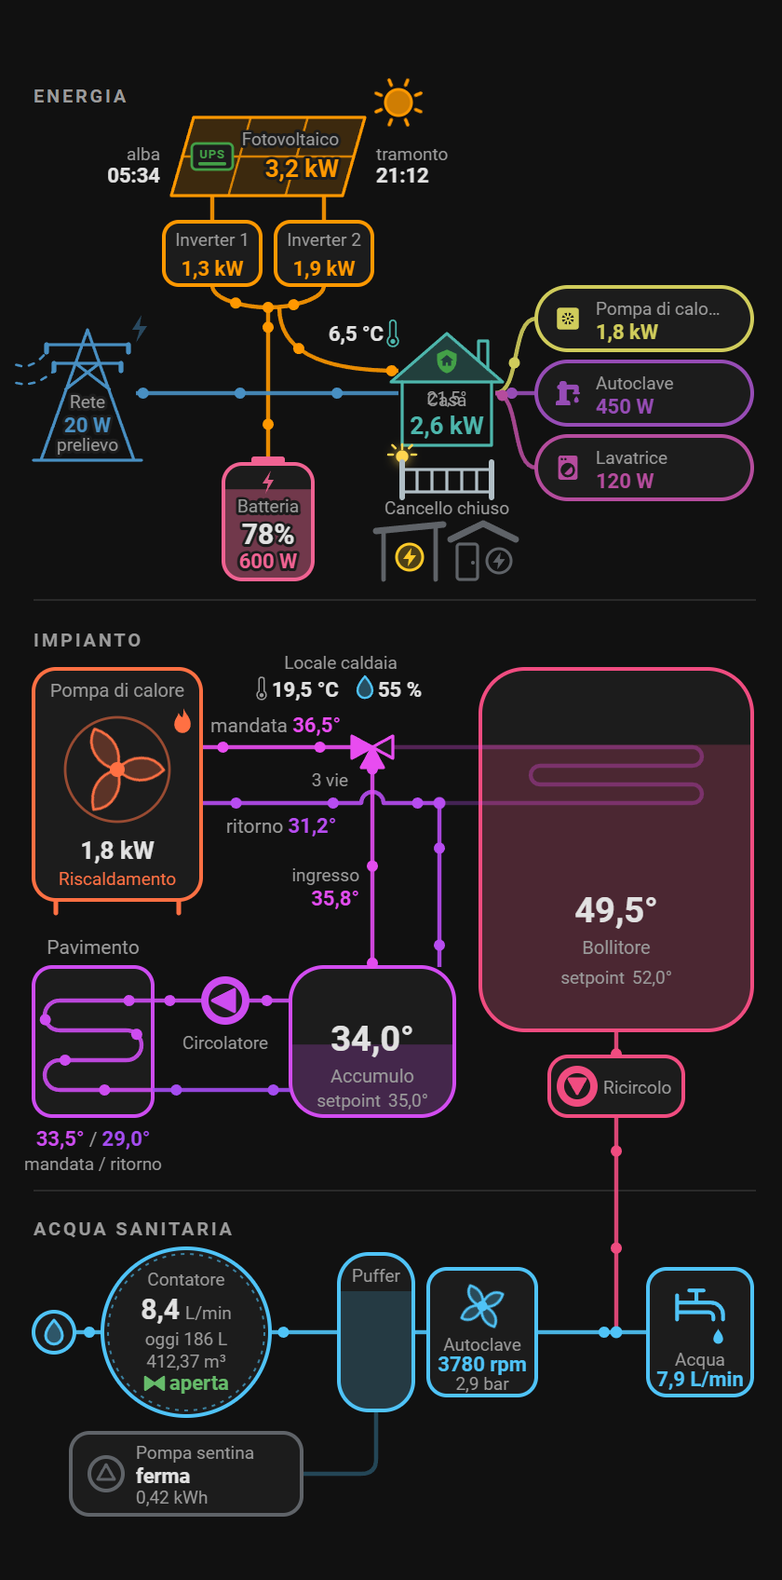
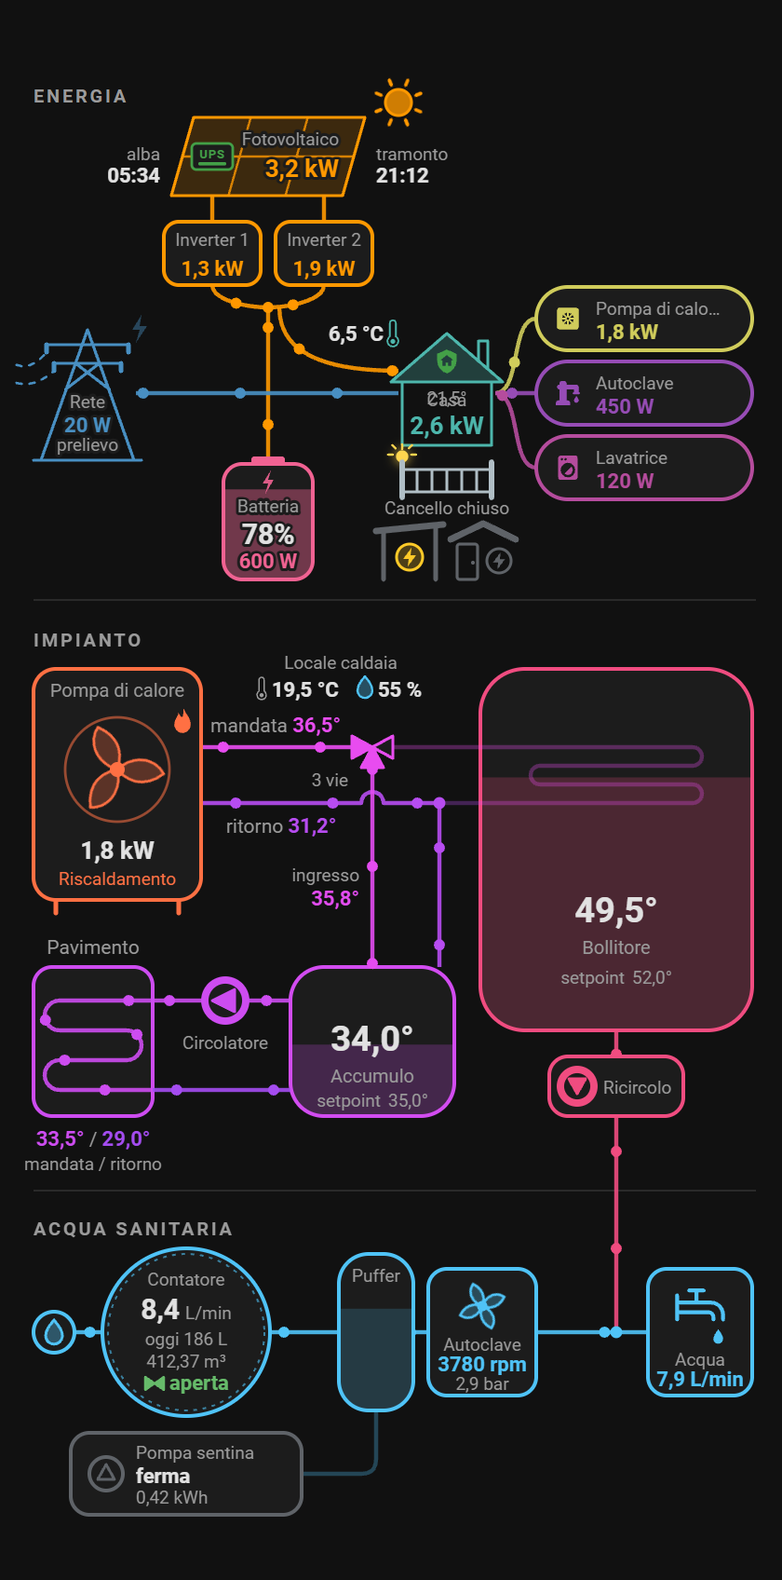
v0.34.0

diff --git a/pdc-flow-card.js b/pdc-flow-card.js
@@ -36,6 +36,8 @@
  *   nomi:                # facoltativo, chiavi in PDC_NOMI; '' = nessuna scritta
  *     bollitore: Boiler ACS
  *     rete: ''
+ *   (acs_livello, puffer_livello: livello dell'acqua in % (0-100): il disegno del serbatoio si riempie in proporzione;
+ *    acs_litri, puffer_litri: capacità in litri, al primo livello: se impostata compare la quantità in litri, altrimenti no),
  *   (acs_setpoint / accumulo_setpoint: climate, water_heater o sensore; numero piccolo nel serbatoio)
  *   colori:              # facoltativo: colore di icone e disegni (anche da fermi), chiavi in PDC_COLORI
  *     bollitore: red     # nome tema (red, blue…), #hex o [r, g, b]
@@ -56,7 +58,7 @@
  *   soglia_energia: 0          # facoltativo: kW sopra cui rete e batteria si animano (0 = qualsiasi valore)
  */
 
-const PDC_VERSION = '0.33.0';
+const PDC_VERSION = '0.34.0';
 
 // Nomi predefiniti dei componenti (sezione "nomi:")
 const PDC_NOMI = {
@@ -115,6 +117,7 @@ const PDC_ENTITY_KEYS = [
   'circolatore', 'pavimento_mandata', 'pavimento_ritorno', 'acqua_valvola', 'acqua_portata',
   'acqua_totale', 'acqua_oggi', 'ricircolo', 'autoclave_velocita', 'autoclave_pressione',
   'autoclave_portata', 'autoclave_stato', 'autoclave_comando', 'acs_setpoint', 'accumulo_setpoint',
+  'acs_livello', 'puffer_livello',
   'sentina_potenza', 'sentina_energia', 'sentina_stato', 'locale_temperatura', 'locale_umidita',
 ];
 const PDC_MAIN_KEYS = PDC_ENTITY_KEYS.filter((k) => !PDC_ENERGY_KEYS.includes(k));
@@ -126,14 +129,14 @@ const PDC_ENTITY_ORDER = [
   'locale_temperatura', 'locale_umidita', 'pdc_potenza', 'riscaldamento', 'raffrescamento', 'acs_potenza', 'acs_attiva',
   'pdc_mandata', 'pdc_ritorno', 'acs_temperatura', 'acs_setpoint', 'accumulo_temperatura', 'accumulo_setpoint',
   'accumulo_ingresso', 'circolatore', 'pavimento_mandata', 'pavimento_ritorno',
-  'acqua_valvola', 'acqua_stop', 'acqua_portata', 'acqua_totale', 'acqua_oggi',
+  'acs_livello', 'puffer_livello', 'acqua_valvola', 'acqua_stop', 'acqua_portata', 'acqua_totale', 'acqua_oggi',
   'autoclave_velocita', 'autoclave_pressione', 'autoclave_portata', 'autoclave_stato', 'autoclave_comando', 'ricircolo',
   'sentina_potenza', 'sentina_energia', 'sentina_stato',
 ];
 const PDC_CONFIG_ORDER = [
   'type', 'title', 'animazioni_sempre', 'demo', 'entities', 'utenze',
   'fv_compatto', 'alba_tramonto', 'soglia_energia', 'batteria_inverti', 'rete_inverti', 'batteria_colora', 'batteria_min', 'batteria_max',
-  'soglia_pdc', 'soglia_acs', 'temperature',
+  'acs_litri', 'puffer_litri', 'soglia_pdc', 'soglia_acs', 'temperature',
   'acqua_portata_unita', 'acqua_separata', 'puffer',
   'nomi', 'colori',
 ];
@@ -175,6 +178,8 @@ const PDC_DEMO = {
   pdc_ritorno: ['sensor', 31.2, '°C'],
   acs_temperatura: ['sensor', 49.5, '°C'],
   acs_setpoint: ['sensor', 52, '°C'],
+  acs_livello: ['sensor', 70, '%'],
+  puffer_livello: ['sensor', 65, '%'],
   accumulo_temperatura: ['sensor', 34, '°C'],
   accumulo_ingresso: ['sensor', 35.8, '°C'],
   accumulo_setpoint: ['sensor', 35, '°C'],
@@ -578,12 +583,13 @@ ${PDC_SVG_ENERGY}
   <line class="div" id="div-a" x1="18" y1="316" x2="406" y2="316"/>
 
   <!-- Bollitore -->
-  <g id="g-boiler" class="clickable" data-key="acs_temperatura">
+  <g id="g-boiler" class="clickable" data-key="acs_temperatura|acs_livello">
     <rect class="tank" x="258" y="36" width="146" height="194" rx="24"/>
     <rect id="fill-boiler" class="fill" clip-path="url(#cp-boiler)" x="258" y="230" width="146" height="0"/>
     <rect class="tank-o" x="258" y="36" width="146" height="194" rx="24"/>
     <text x="331" y="172" class="big c" id="t-boiler">—</text>
     <text x="331" y="189" class="lbl c sm" id="n-bollitore">Bollitore</text>
+    <text x="331" y="66" class="lbl c sm hidden" id="t-boil-l"></text>
   </g>
   <g id="g-boil-sp" class="clickable" data-key="acs_setpoint">
     <text x="331" y="205" class="lbl c xs"><tspan id="n-setpoint">setpoint</tspan><tspan dx="4" id="t-boil-sp">—</tspan></text>
@@ -725,11 +731,12 @@ ${PDC_SVG_ENERGY}
   </g>
 
   <!-- Puffer: nome dentro -->
-  <g id="g-puffer">
+  <g id="g-puffer" class="clickable" data-key="puffer_livello">
     <rect class="tank" x="182" y="394" width="40" height="84" rx="16"/>
     <rect id="fill-puffer" class="fill" clip-path="url(#cp-puffer)" x="182" y="414" width="40" height="64"/>
     <rect class="tank-o" x="182" y="394" width="40" height="84" rx="16"/>
     <text x="202" y="409" class="lbl c xs halo" id="n-puffer">Puffer</text>
+    <text x="202" y="448" class="lbl c xs halo hidden" id="t-puffer-l"></text>
   </g>
 
   <!-- Autoclave: girante, nome, stato e pressione dentro -->
@@ -803,6 +810,7 @@ const PDC_CSS = `
   .imp      { transform-box: view-box; transform-origin: 259px 422px; }
   .run .imp { animation: pdc-spin var(--spin, .6s) linear infinite; }
   #fill-puffer { fill: var(--c, var(--pdc-idle)); fill-opacity: .18; }
+  .fill { transition: y .8s, height .8s; }
 
   .tank   { fill: var(--pdc-bg); }
   .tank-o { fill: none; stroke: var(--c, var(--pdc-idle)); stroke-width: 2; transition: stroke .5s; }
@@ -1276,6 +1284,30 @@ class PdcFlowCard extends HTMLElement {
     const fh = h * k;
     el.setAttribute('y', (y0 + h - fh).toFixed(1));
     el.setAttribute('height', fh.toFixed(1));
+    el.style.fill = color || '';
+  }
+
+  // Livello in % (0-100): l'acqua sale e scende con una breve transizione
+  _level(id, pct, y0, h, color) {
+    const el = this._els[id];
+    if (!el) return;
+    const k = pct === null || isNaN(pct) ? 0 : Math.min(1, Math.max(0, pct / 100));
+    const fh = h * k;
+    el.setAttribute('y', (y0 + h - fh).toFixed(1));
+    el.setAttribute('height', fh.toFixed(1));
+    el.style.fill = color || '';
+  }
+
+  // Quantità in litri: solo con livello e capacità impostati
+  _litri(id, key, cap, color) {
+    const el = this._els[id];
+    if (!el) return;
+    const capN = Number(cap);
+    const pct = this._has(key) ? this._num(key) : null;
+    const show = capN > 0 && pct !== null && !isNaN(pct);
+    el.classList.toggle('hidden', !show);
+    if (!show) return;
+    el.textContent = Math.round((Math.min(100, Math.max(0, pct)) / 100) * capN) + ' L';
     el.style.fill = color || '';
   }
 
@@ -1896,7 +1928,9 @@ class PdcFlowCard extends HTMLElement {
     const boilTxt = colora('bollitore') ? tc('bollitore', tAcs) : null;
     this._text('t-boiler', fT(tAcs), boilTxt || '');
     paint('n-bollitore', boilTxt);
-    this._fill('fill-boiler', tAcs, 36, 194, cAcs);
+    if (has('acs_livello')) this._level('fill-boiler', this._num('acs_livello'), 36, 194, cAcs);
+    else this._fill('fill-boiler', tAcs, 36, 194, cAcs);
+    this._litri('t-boil-l', 'acs_livello', c.acs_litri, cAcs);
     this._color('g-accu', cAccu);
     const accuTxt = colora('accumulo') ? tc('accumulo', tAccu) : null;
     this._text('t-accu', fT(tAccu), accuTxt || '');
@@ -1962,6 +1996,8 @@ class PdcFlowCard extends HTMLElement {
 
     // Puffer e autoclave
     this._color('g-puffer', col('puffer', COLD));
+    this._litri('t-puffer-l', 'puffer_livello', c.puffer_litri, null);
+    if (has('puffer_livello')) this._level('fill-puffer', this._num('puffer_livello'), 394, 84, col('puffer', COLD));
     this._color('g-auto', fixed('autoclave') || (acRun ? COLD : null));
     this._els['g-auto'].classList.toggle('run', !!acRun);
     if (acRpm) {
@@ -2086,6 +2122,8 @@ const PDC_FIELD_SELECTORS = {
   batteria_potenza: PDC_SENSOR,
   batteria_inverti: { boolean: {} },
   batteria_colora: { boolean: {} },
+  acs_litri: { number: { min: 0, max: 5000, step: 1, mode: 'box', unit_of_measurement: 'L' } },
+  puffer_litri: { number: { min: 0, max: 5000, step: 1, mode: 'box', unit_of_measurement: 'L' } },
   batteria_min: { number: { min: 0, max: 100, step: 1, mode: 'box', unit_of_measurement: '%' } },
   batteria_max: { number: { min: 0, max: 100, step: 1, mode: 'box', unit_of_measurement: '%' } },
   rete_potenza: PDC_SENSOR,
@@ -2118,6 +2156,8 @@ const PDC_FIELD_SELECTORS = {
   circolatore: PDC_ANY,
   pavimento_mandata: PDC_SENSOR,
   pavimento_ritorno: PDC_SENSOR,
+  acs_livello: PDC_SENSOR,
+  puffer_livello: PDC_SENSOR,
   acs_setpoint: { entity: { domain: ['climate', 'water_heater', 'sensor', 'number', 'input_number'] } },
   accumulo_setpoint: { entity: { domain: ['climate', 'water_heater', 'sensor', 'number', 'input_number'] } },
   acqua_valvola: PDC_ANY,
@@ -2163,7 +2203,7 @@ const PDC_GROUPS = [
   ['valvola_3_vie', 'Valvola 3 vie (ciclo ACS)', 'mdi:valve', ['acs_potenza', 'acs_attiva', 'soglia_acs', 'nome_valvola_3_vie', 'colore_valvola_3_vie']],
   ['mandata', 'Mandata', 'mdi:thermometer-chevron-up', ['pdc_mandata', 'nome_mandata', 'colore_mandata', 'tcolora_mandata', 'tmin_mandata', 'tmax_mandata']],
   ['ritorno', 'Ritorno', 'mdi:thermometer-chevron-down', ['pdc_ritorno', 'nome_ritorno', 'colore_ritorno', 'tcolora_ritorno', 'tmin_ritorno', 'tmax_ritorno']],
-  ['bollitore', 'Bollitore', 'mdi:water-boiler', ['acs_temperatura', 'acs_setpoint', 'nome_bollitore', 'colore_bollitore', 'tcolora_bollitore', 'tmin_bollitore', 'tmax_bollitore']],
+  ['bollitore', 'Bollitore', 'mdi:water-boiler', ['acs_temperatura', 'acs_setpoint', 'acs_livello', 'acs_litri', 'nome_bollitore', 'colore_bollitore', 'tcolora_bollitore', 'tmin_bollitore', 'tmax_bollitore']],
   ['accumulo', 'Accumulo', 'mdi:storage-tank', ['accumulo_temperatura', 'accumulo_setpoint', 'nome_accumulo', 'colore_accumulo', 'tcolora_accumulo', 'tmin_accumulo', 'tmax_accumulo']],
   ['ingresso_accumulo', 'Ingresso accumulo', 'mdi:import', ['accumulo_ingresso', 'nome_ingresso_accumulo', 'colore_ingresso_accumulo', 'tcolora_ingresso_accumulo', 'tmin_ingresso_accumulo', 'tmax_ingresso_accumulo']],
   ['circolatore', 'Circolatore pavimento', 'mdi:pump', ['circolatore', 'nome_circolatore', 'colore_circolatore']],
@@ -2171,14 +2211,14 @@ const PDC_GROUPS = [
   ['rete', 'Rete e linee acqua', 'mdi:water', ['nome_rete', 'colore_rete', 'colore_acqua_fredda']],
   ['stop', 'Stop acqua', 'mdi:pipe-valve', ['acqua_valvola', 'nome_stop', 'colore_stop']],
   ['contatore', 'Contatore', 'mdi:counter', ['acqua_portata', 'acqua_portata_unita', 'acqua_totale', 'acqua_oggi', 'acqua_separata', 'nome_contatore', 'colore_contatore']],
-  ['puffer', 'Puffer', 'mdi:storage-tank-outline', ['puffer', 'nome_puffer', 'colore_puffer']],
+  ['puffer', 'Puffer', 'mdi:storage-tank-outline', ['puffer', 'puffer_livello', 'puffer_litri', 'nome_puffer', 'colore_puffer']],
   ['autoclave', 'Autoclave', 'mdi:water-pump', ['autoclave_velocita', 'autoclave_pressione', 'autoclave_portata', 'autoclave_stato', 'autoclave_comando', 'nome_autoclave', 'colore_autoclave']],
   ['ricircolo', 'Ricircolo', 'mdi:reload', ['ricircolo', 'nome_ricircolo', 'colore_ricircolo']],
   ['rubinetto', 'Rubinetto', 'mdi:faucet', ['nome_rubinetto', 'colore_rubinetto']],
   ['sentina', 'Pompa sentina', 'mdi:water-pump', ['sentina_potenza', 'sentina_energia', 'sentina_stato', 'nome_sentina', 'colore_sentina']],
 ];
 
-const PDC_OPT_KEYS = ['title', 'animazioni_sempre', 'acqua_portata_unita', 'puffer', 'soglia_pdc', 'soglia_acs', 'soglia_energia', 'batteria_inverti', 'rete_inverti', 'batteria_colora', 'batteria_min', 'batteria_max', 'fv_compatto', 'alba_tramonto', 'acqua_separata'];
+const PDC_OPT_KEYS = ['title', 'animazioni_sempre', 'acqua_portata_unita', 'puffer', 'acs_litri', 'puffer_litri', 'soglia_pdc', 'soglia_acs', 'soglia_energia', 'batteria_inverti', 'rete_inverti', 'batteria_colora', 'batteria_min', 'batteria_max', 'fv_compatto', 'alba_tramonto', 'acqua_separata'];
 
 const PDC_TNUM = { number: { min: -30, max: 100, step: 1, mode: 'box', unit_of_measurement: '°C' } };
 
@@ -2273,6 +2313,8 @@ const PDC_LABELS = {
   batteria_potenza: 'Potenza (positiva = in scarica)',
   batteria_inverti: 'Segno invertito (positiva = in carica)',
   batteria_colora: 'Colore secondo la carica (rosso scarica → verde carica)',
+  acs_litri: 'Capacità del bollitore in litri',
+  puffer_litri: 'Capacità del puffer in litri',
   batteria_min: 'Rosso fino a',
   batteria_max: 'Verde da',
   rete_potenza: 'Potenza (positiva = prelievo dalla rete)',
@@ -2326,6 +2368,8 @@ const PDC_LABELS = {
   nome_sezione_impianto: 'Nome della sezione',
   nome_sezione_acqua: 'Nome della sezione',
   nome_setpoint: 'Scritta prima del setpoint',
+  acs_livello: 'Livello acqua in % (il disegno sale e scende)',
+  puffer_livello: 'Livello acqua del puffer in % (il disegno sale e scende)',
   acs_setpoint: 'Setpoint (numero piccolo nel serbatoio)',
   accumulo_setpoint: 'Setpoint (numero piccolo nel serbatoio)',
   colore_acqua_fredda: 'Colore delle linee acqua',
@@ -2392,6 +2436,7 @@ class PdcFlowCardEditor extends HTMLElement {
           return 'Predefinito: ' + (sch.name.startsWith('tmin_') ? d[0] : d[1]) + ' °C';
         }
         if (sch.name === 'colore_rete_elettrica') return 'Nessuno = blu in prelievo, viola in immissione';
+        if (sch.name === 'acs_litri' || sch.name === 'puffer_litri') return 'Con il livello: mostra la quantità in litri. Vuoto = quantità non mostrata';
         if (sch.name === 'batteria_min') return 'Predefinito: 0 %';
         if (sch.name === 'batteria_max') return 'Predefinito: 100 %';
         if (sch.name === 'batteria_colora') return 'Colora batteria, linea, percentuale e nome. Un colore fisso, se scelto, vale per il disegno';

diff --git a/dev/render.js b/dev/render.js
@@ -11,7 +11,7 @@ const ent = {
   rete_potenza: 'sensor.grid', casa_potenza: 'sensor.home', rete_stato: 'binary_sensor.gws',
   temperatura_esterna: 'sensor.ext', pdc_potenza: ['sensor.p_risc', 'sensor.p_tank', 'sensor.p_raffr'], acs_potenza: 'sensor.p_tank', pdc_mandata: 'sensor.mand', pdc_ritorno: 'sensor.rit',
   acs_temperatura: 'sensor.acs', acs_setpoint: 'climate.sp', riscaldamento: 'binary_sensor.risc', raffrescamento: 'binary_sensor.raffr', accumulo_temperatura: 'sensor.accu', accumulo_ingresso: 'sensor.ain', circolatore: 'binary_sensor.circ',
-  acqua_valvola: 'switch.valve', acqua_portata: 'sensor.portata', acqua_oggi: 'sensor.oggi', locale_temperatura: 'sensor.loc_t', allarme: 'alarm_control_panel.al', casa_temperatura: 'sensor.casa_t', ups_batteria: 'sensor.ups', cancello_stato: 'binary_sensor.gate', cancello_luce: 'switch.gate_light', tettoia_prese: 'switch.t1', ingresso_prese: 'switch.t2', locale_umidita: 'sensor.loc_h', acqua_totale: 'sensor.tot', autoclave_velocita: 'sensor.ac_rpm', autoclave_pressione: 'sensor.ac_bar', autoclave_portata: 'sensor.ac_lpm', autoclave_stato: 'sensor.ac_st', ricircolo: 'switch.ric',
+  acqua_valvola: 'switch.valve', acqua_portata: 'sensor.portata', acqua_oggi: 'sensor.oggi', locale_temperatura: 'sensor.loc_t', allarme: 'alarm_control_panel.al', casa_temperatura: 'sensor.casa_t', acs_livello: 'sensor.acs_l', puffer_livello: 'sensor.puf_l', ups_batteria: 'sensor.ups', cancello_stato: 'binary_sensor.gate', cancello_luce: 'switch.gate_light', tettoia_prese: 'switch.t1', ingresso_prese: 'switch.t2', locale_umidita: 'sensor.loc_h', acqua_totale: 'sensor.tot', autoclave_velocita: 'sensor.ac_rpm', autoclave_pressione: 'sensor.ac_bar', autoclave_portata: 'sensor.ac_lpm', autoclave_stato: 'sensor.ac_st', ricircolo: 'switch.ric',
   sentina_potenza: 'sensor.sent_w', sentina_energia: 'sensor.sent_kwh', sentina_stato: 'switch.sent',
 };
 const SUNA = { next_rising: '2026-11-12T06:18:06+00:00', next_setting: '2026-11-12T16:03:43+00:00' };
@@ -19,7 +19,7 @@ const nomi = { rete: '', stop: 'Acqua', puffer: '800L' };
 const base = (o = {}) => ({ 'sensor.ups': S_(100, '%'), 'binary_sensor.gws': S_('on'), 'sensor.ext': S_(9.4, '°C'), 'sensor.p_risc': S_(0, 'kW'), 'sensor.p_tank': S_(0, 'kW'), 'sensor.p_raffr': S_(0, 'kW'),
   'sensor.mand': S_(35, '°C'), 'sensor.rit': S_(31, '°C'), 'sensor.acs': S_(52, '°C'), 'climate.sp': S_('heat', null, { temperature: 54 }), 'binary_sensor.risc': S_('on'), 'binary_sensor.raffr': S_('off'),
   'sensor.accu': S_(32, '°C'), 'sensor.ain': S_(34, '°C'), 'binary_sensor.circ': S_('on'), 'switch.valve': S_('on'), 'sensor.portata': S_(0, 'L/min'),
-  'sensor.ac_rpm': S_(0, 'rpm'), 'sensor.ac_bar': S_(3.1, 'bar'), 'sensor.ac_lpm': S_(0, 'L/min'), 'sensor.ac_st': S_('Standby'), 'switch.ric': S_('off'), 'sensor.oggi': S_(227, 'L'), 'sensor.loc_t': S_(20.5, '°C'), 'sensor.casa_t': S_(21.5, '°C'), 'alarm_control_panel.al': S_('disarmed'), 'binary_sensor.gate': S_('off'), 'switch.gate_light': S_('on'), 'switch.t1': S_('on'), 'switch.t2': S_('off'), 'sensor.loc_h': S_(53, '%'), 'sensor.tot': S_(178.956, 'm³'),
+  'sensor.ac_rpm': S_(0, 'rpm'), 'sensor.ac_bar': S_(3.1, 'bar'), 'sensor.ac_lpm': S_(0, 'L/min'), 'sensor.ac_st': S_('Standby'), 'switch.ric': S_('off'), 'sensor.oggi': S_(227, 'L'), 'sensor.loc_t': S_(20.5, '°C'), 'sensor.casa_t': S_(21.5, '°C'), 'sensor.acs_l': S_(70, '%'), 'sensor.puf_l': S_(35, '%'), 'alarm_control_panel.al': S_('disarmed'), 'binary_sensor.gate': S_('off'), 'switch.gate_light': S_('on'), 'switch.t1': S_('on'), 'switch.t2': S_('off'), 'sensor.loc_h': S_(53, '%'), 'sensor.tot': S_(178.956, 'm³'),
   'sensor.sent_w': S_(0, 'W'), 'sensor.sent_kwh': S_(0.117, 'kWh'), 'switch.sent': S_('on'),
   'sun.sun': S_('below_horizon', null, SUNA), 'sensor.fc': S_(0, 'W'), 'weather.casa': S_('cloudy'), ...o });
 const en = (fv, i1, i2, bat, grid, home, soc) => ({ 'sensor.fv': S_(fv, 'kW'), 'sensor.inv1': S_(i1, 'kW'), 'sensor.inv2': S_(i2, 'kW'), 'sensor.bat': S_(bat, 'kW'), 'sensor.grid': S_(grid, 'kW'), 'sensor.home': S_(home, 'kW'), 'sensor.soc': S_(soc, '%') });
@@ -34,13 +34,13 @@ const utenzeH = utenze.map((u) => ({ ...u, nascondi_a_zero: true }));
 const NOMI_U = { sezione_energia: '', fotovoltaico: '', inverter_1: 'Slave', inverter_2: 'Main', batteria: '', rete_elettrica: '', casa: '', sezione_impianto: '', sezione_acqua: '', esterno: '', accumulo: 'Acqua Pavimento', bollitore: 'Acqua Sanitaria', rete: 'Acqua', stop: '', puffer: '800L', rubinetto: 'Casa' };
 const TEMP_U = { esterno: { colora: true }, mandata: { colora: true }, ritorno: { colora: true }, ingresso_accumulo: { colora: true }, bollitore: { colora: true }, accumulo: { colora: true } };
 const scen = {
-  notte_u: { cfg: { entities: ent, utenze: utenzeH, batteria_colora: true, acqua_portata_unita: 'L/h', temperature: TEMP_U, nomi: NOMI_U },
-    st: { ...base({ 'sensor.portata': S_(0, 'L/h') }), ...en(-0.01, 0, 0, -0.01, 0.65, 0.64, 18.5), ...ust(0, 0, 0, 0) } },
-  giorno_u: { cfg: { entities: ent, utenze: utenzeH, batteria_colora: true, acqua_portata_unita: 'L/h', temperature: TEMP_U, nomi: NOMI_U },
+  notte_u: { cfg: { entities: ent, acs_litri: 300, puffer_litri: 800, utenze: utenzeH, batteria_colora: true, acqua_portata_unita: 'L/h', temperature: TEMP_U, nomi: NOMI_U },
+    st: { ...base({ 'sensor.portata': S_(0, 'L/h'), 'sensor.acs_l': S_(30, '%'), 'sensor.puf_l': S_(85, '%') }), ...en(-0.01, 0, 0, -0.01, 0.65, 0.64, 18.5), ...ust(0, 0, 0, 0) } },
+  giorno_u: { cfg: { entities: ent, acs_litri: 300, puffer_litri: 800, utenze: utenzeH, batteria_colora: true, acqua_portata_unita: 'L/h', temperature: TEMP_U, nomi: NOMI_U },
     st: { ...base({ 'sun.sun': S_('above_horizon', null, SUNA), 'sensor.fc': S_(2400, 'W'), 'sensor.p_risc': S_(2.8, 'kW'), 'sensor.ups': S_(87, '%'), 'sensor.portata': S_(372, 'L/h'), 'alarm_control_panel.al': S_('armed_away'), 'binary_sensor.gate': S_('on'), 'switch.gate_light': S_('off'), 'switch.t1': S_('off'), 'switch.t2': S_('on') }), ...en(2.2, 0.9, 1.3, -0.4, 0.95, 2.75, 45), ...ust(2.8, 0, 0, 0) } },
   utente: { cfg: { entities: ent, utenze, batteria_colora: true, acqua_portata_unita: 'L/h', temperature: { esterno: { colora: true }, mandata: { colora: true }, ritorno: { colora: true }, ingresso_accumulo: { colora: true }, bollitore: { colora: true }, accumulo: { colora: true } },
     nomi: { sezione_energia: '', fotovoltaico: '', inverter_1: 'Slave', inverter_2: 'Main', batteria: '', rete_elettrica: '', casa: '', sezione_impianto: '', sezione_acqua: '', esterno: '', accumulo: 'Acqua Pavimento', bollitore: 'Acqua Sanitaria', rete: 'Acqua', stop: '', puffer: '800L', rubinetto: 'Casa' } },
-    st: { ...base({ 'sensor.portata': S_(0, 'L/h') }), ...en(-0.01, 0, 0, -0.01, 0.65, 0.64, 18.5), ...ust(0, 0, 0, 0) } },
+    st: { ...base({ 'sensor.portata': S_(0, 'L/h'), 'sensor.acs_l': S_(30, '%'), 'sensor.puf_l': S_(85, '%') }), ...en(-0.01, 0, 0, -0.01, 0.65, 0.64, 18.5), ...ust(0, 0, 0, 0) } },
   contatore: { cfg: { entities: ent, nomi: { rete: 'Acqua', stop: '', puffer: '800L', rubinetto: 'Casa' }, batteria_colora: true }, st: { ...base({ 'sensor.portata': S_(372, 'L/h') }), ...en(0, 0, 0, 0.01, 0.6, 0.6, 18) } },
   chiusa: { cfg: { entities: ent, nomi: { rete: 'Acqua', stop: '', puffer: '800L', rubinetto: 'Casa' }, acqua_portata_unita: 'L/h' }, st: { ...base({ 'switch.valve': S_('off'), 'sensor.ac_rpm': S_(3786, 'rpm'), 'sensor.ac_lpm': S_(7.8, 'L/min'), 'sensor.ac_st': S_('In funzione') }), ...en(0, 0, 0, 0.01, 0.6, 0.6, 18) } },
   separata: { cfg: { entities: ent, nomi: { rete: '', stop: 'Acqua', puffer: '800L' }, acqua_separata: true }, st: { ...base({ 'sensor.portata': S_(6.2, 'L/min') }), ...en(0, 0, 0, 0.01, 0.6, 0.6, 18) } },

diff --git a/README.md b/README.md
@@ -75,6 +75,8 @@ entities:
   casa_potenza: sensor.casa_consumo
   # Pompa di calore e impianto
   casa_temperatura: sensor.temperatura_casa
+  acs_livello: sensor.livello_bollitore
+  puffer_livello: sensor.livello_puffer
   allarme: alarm_control_panel.allarme
   cancello_stato: binary_sensor.cancello
   cancello_luce: switch.luce_cancello
@@ -120,6 +122,7 @@ entities:
 | `rete_stato` | stato della rete (on = collegata); se la rete si stacca compare "staccata" |
 | `casa_potenza` | consumo della casa (se manca, viene calcolato) |
 | `temperatura_esterna` | temperatura esterna, piccola a sinistra del tetto della casa (senza la casa in alto a sinistra; senza la parte energia nel titolo dell'impianto) |
+| `acs_livello`, `puffer_livello` | livello dell'acqua in % (0-100) di bollitore e puffer: l'acqua nel disegno sale e scende (senza `acs_livello` il bollitore si riempie in base alla temperatura) |
 | `casa_temperatura` | temperatura della casa: piccola, dentro la casa sopra il consumo |
 | `allarme` | allarme (`alarm_control_panel`): scudo al centro del tetto della casa, con l'icona dell'entità o quella di HA per lo stato; verde inserito, grigio disinserito, arancione in attesa, rosso lampeggiante scattato |
 | `cancello_stato`, `cancello_luce` | cancello sotto la casa: aperto (arancione, `on`/`open`) o chiuso (grigio), con la lampada accesa o spenta (nome con `nomi: cancello`, colore fisso con `colori: cancello`) |
@@ -192,6 +195,7 @@ utenze:
 | `batteria_min`, `batteria_max` | percentuale a cui la batteria è rossa e a cui è verde (predefinito 0 e 100) |
 | `soglia_pdc`, `soglia_acs` | potenza in kW sopra cui la pompa o il ciclo acqua calda sono considerati accesi (predefinito 0,1) |
 | `acqua_portata_unita` | unità della portata se il sensore la dichiara male (`L/h`, `L/min`, `m³/h`…) |
+| `acs_litri`, `puffer_litri` | capacità in litri di bollitore e puffer: con l'entità livello (`acs_livello`, `puffer_livello`) compare la quantità in litri; senza, non compare |
 | `puffer` | `true` mostra il puffer anche senza autoclave |
 | `acqua_separata` | `true` mostra rete e stop come icone a sé, prima del contatore (predefinito: dentro il contatore) |
 | `demo` | `true` mostra dati di esempio finché non è impostata nessuna entità; è l'anteprima che compare nella scelta delle card |
@@ -284,6 +288,7 @@ See the YAML example in the Italian section above: the keys are the same.
 | `rete_stato` | grid status (on = connected); "staccata" (disconnected) is shown when the grid is down |
 | `casa_potenza` | house consumption (calculated if missing) |
 | `temperatura_esterna` | outdoor temperature, small, left of the house roof (without the house, top-left; without the energy section, in the heating system title) |
+| `acs_livello`, `puffer_livello` | water level in % (0-100) of the boiler and the break tank: the water in the drawing rises and falls (without `acs_livello` the boiler fills according to temperature) |
 | `casa_temperatura` | house temperature: small, inside the house above the consumption |
 | `allarme` | alarm (`alarm_control_panel`): shield in the middle of the house roof, with the entity's icon or HA's icon for the state; green armed, grey disarmed, orange pending, flashing red triggered |
 | `cancello_stato`, `cancello_luce` | gate below the house: open (orange, `on`/`open`) or closed (grey), with the lamp on or off (label with `nomi: cancello`, fixed colour with `colori: cancello`) |
@@ -347,6 +352,7 @@ In the visual editor use **Aggiungi utenza elettrica** (add electrical load). Ke
 | `batteria_min`, `batteria_max` | charge (%) at which the battery is red and green (default 0 and 100) |
 | `soglia_pdc`, `soglia_acs` | kW above which the heat pump or the hot-water cycle count as running (default 0.1) |
 | `acqua_portata_unita` | flow unit when the sensor declares a wrong one (`L/h`, `L/min`, `m³/h`…) |
+| `acs_litri`, `puffer_litri` | capacity in litres of the boiler and the break tank: with the level entity (`acs_livello`, `puffer_livello`) the quantity in litres is shown; without it, it is not |
 | `puffer` | `true` shows the break tank even without a booster pump |
 | `acqua_separata` | `true` shows mains and shut-off valve as separate icons before the meter (default: inside the meter) |
 | `demo` | `true` shows sample data until an entity is set; it is the preview in the card picker |

diff --git a/CHANGELOG.md b/CHANGELOG.md
@@ -1,5 +1,12 @@
 # Changelog
 
+## v0.34.0
+### Novità
+- **Livello dell'acqua di bollitore e puffer** (`acs_livello`, `puffer_livello`, sensori in %): l'acqua nel disegno sale e scende in base alla percentuale. Senza `acs_livello` il bollitore si riempie in base alla temperatura, come prima. Toccando il serbatoio si apre l'entità.
+- **Quantità in litri** (`acs_litri`, `puffer_litri`, al primo livello): con la capacità impostata compare la quantità (livello per capacità) dentro il serbatoio; senza capacità non compare. Disponibili anche nell'editor.
+
+*English* — New: water level of the boiler and the break tank (`acs_livello`, `puffer_livello`, in %): the water in the drawing rises and falls; optional capacity in litres (`acs_litri`, `puffer_litri`) shows the quantity in litres, hidden if not set.
+
 ## v0.33.0
 ### Novità
 - **Temperatura della casa** (`casa_temperatura`, sensore): temperatura piccola dentro la casa, sopra il consumo. Toccandola si apre l'entità. Colore con `colori: casa`. Disponibile anche nell'editor, nel gruppo Casa.
